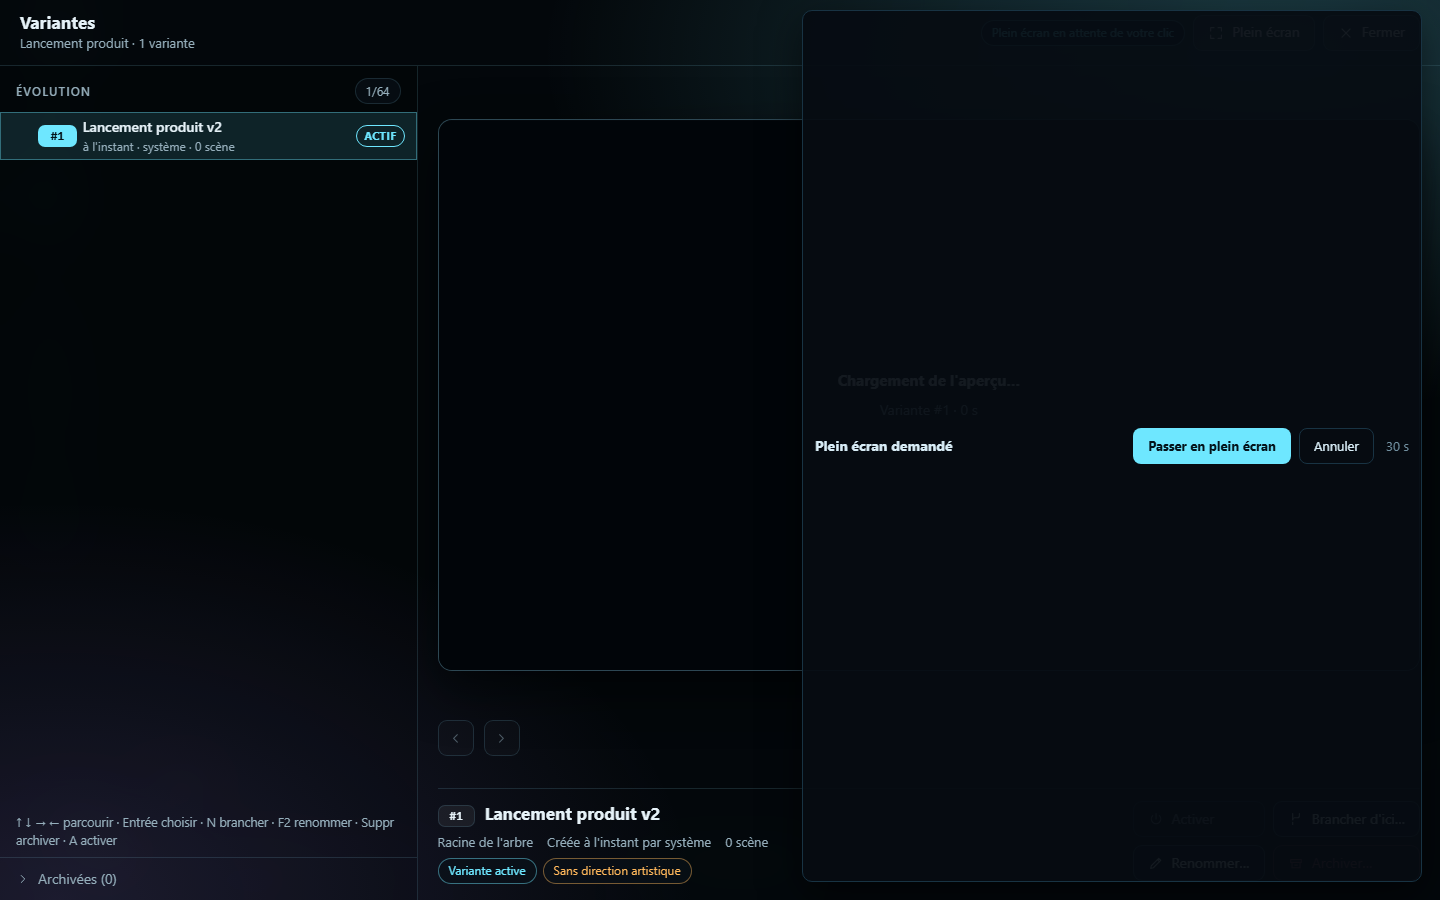
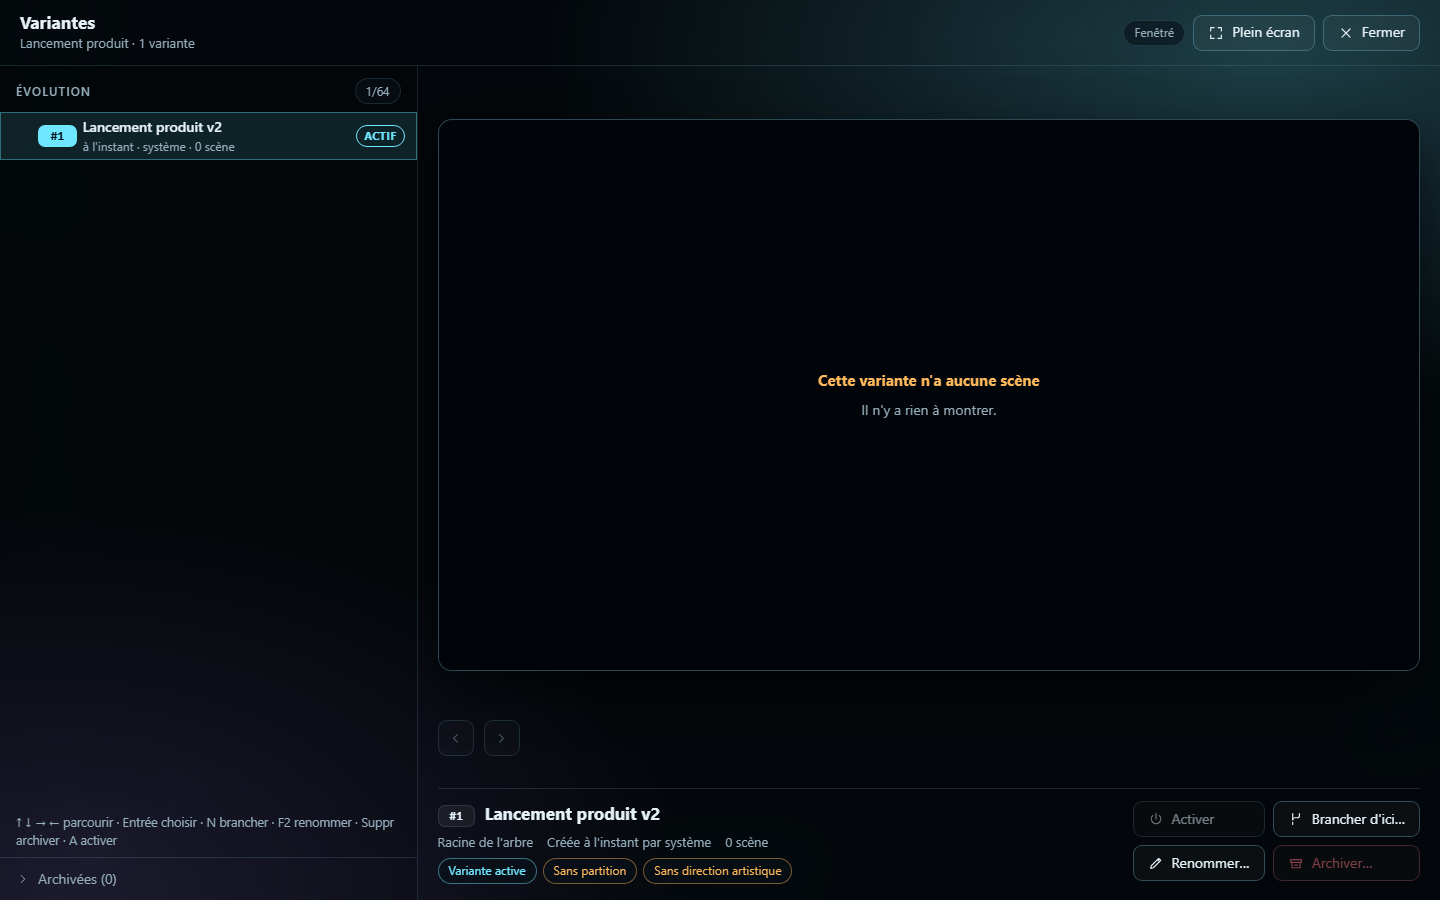
S8: rework (Board change clears the previous groups, disabled open says why, notice brought into view, 50-source cap, one links instance, failed render error code, retaken screenshot)

diff --git a/jarvis/runtime/control_center_workspace.js b/jarvis/runtime/control_center_workspace.js
@@ -42,6 +42,7 @@ const JarvisWorkspaceCore=(function(){
      l'inspection d'un Board, 10 s pour le reste (`docs/boards.md`) : le client
      attend un peu plus, pour que ce soit la réponse du relais qui parle. */
   const DEADLINE_MS=Object.freeze({read:15000,memory:35000});
+  const PRES_PAGE=50;
   const PAGE=20,ACTIVITY_PAGE=50,ARTIFACT_TEXT=2000,READ_BYTES=65536;
   const TREE=Object.freeze({depth:8,max_entries:500});
 
@@ -292,7 +293,7 @@ const JarvisWorkspaceCore=(function(){
       relations:{scope:'session',id:null,data:slot(),artifacts:pager()},
       memory:{boardId:null,tree:slot(),file:{path:null,...slot()},search:{q:'',path:'',...slot()},
         form:null,confirm:null,formGen:0,archived:false},
-      artifacts:{scope:'board',id:null,session:null,context:null,kind:'',since:'',until:'',list:pager(),detail:{id:null,...slot()},presentations:slot()},
+      artifacts:{scope:'board',id:null,session:null,context:null,kind:'',since:'',until:'',list:pager(),detail:{id:null,...slot()},presentations:slot(),presShown:PRES_PAGE},
     };
   }
 
@@ -592,7 +593,9 @@ const JarvisWorkspaceCore=(function(){
     }
     function presentationsRead(){
       const a=S.artifacts;
-      if(a.scope!=='board'||!a.id){a.presentations=slot();changed();return Promise.resolve(null)}
+      if(a.scope!=='board'||!a.id){a.presentations=slot();a.presShown=PRES_PAGE;changed();return Promise.resolve(null)}
+      /* Un autre Board : les groupes du précédent disparaissent AVANT la lecture (jamais ses boutons sous un autre titre). */
+      if(a.presentations.key!==a.id){a.presentations=slot();a.presShown=PRES_PAGE}
       return load(a.presentations,a.id,()=>client.get(PATHS.boardPresentations(a.id)),{event:'presentations_read'});
     }
     /* « Ouvrir la source » : le Studio possède la présentation ; la page ne fait que demander son ouverture par identifiant. */
@@ -798,6 +801,7 @@ const JarvisWorkspaceCore=(function(){
         case 'artifact-toggle':return openArtifact(d.id);
         case 'artifact-show':return S.view==='artifacts'?openArtifact(d.id,{toggle:false}):showArtifact(d.id);
         case 'source-open':return openSource(d);
+        case 'presentations-more':S.artifacts.presShown+=PRES_PAGE;changed();return null;
         case 'artifact-close':S.artifacts.detail={id:null,...slot()};changed();return null;
         case 'switch':return switchTo(d.board);
         case 'notice-close':S.notice=null;changed();return null;
@@ -1239,7 +1243,16 @@ const JarvisWorkspaceCore=(function(){
     return `<li><span class="wsp-node">Rendu</span> ${chip(RENDER_FORMATS[render.format]||artifactKindLabel(render.kind),'',`kind : ${render.kind}`)}`
       +`${render.state&&render.state!=='complete'?stateChip(render.state):''}${here?'':chip('Non lié à ce Board','warn','Ce rendu n’est lié qu’à d’autres Boards.')}`
       +`<button type="button" class="wsp-link" data-act="artifact-show" data-id="${esc(render.artifact_id)}" title="Ouvrir le détail et la provenance">${esc(render.artifact_id)}</button>`
-      +`${render.size_bytes!=null?` <span class="wsp-sub">${esc(formatBytes(render.size_bytes))}</span>`:''}</li>`;
+      +`${render.size_bytes!=null?` <span class="wsp-sub">${esc(formatBytes(render.size_bytes))}</span>`:''}`
+      +`${render.error_code&&render.state!=='complete'?` <span class="wsp-sub">${esc(render.error_code)}</span>`:''}</li>`;
+  }
+  /* Un bouton « Ouvrir » désactivé dit POURQUOI, en texte visible relié par aria-describedby (pas seulement en infobulle). */
+  function openButtonHtml(attrs,label,source,key){
+    if(source&&source.exists)return btn('source-open',attrs,label,{title:'Ouvre dans le Studio (version actuelle de la source)'});
+    const why=source&&source.exists===null?'Source illisible : impossible de l’ouvrir.':'Source supprimée : rien à ouvrir.';
+    const id=`wspWhy-${String(key).replace(/[^A-Za-z0-9_-]/g,'')}`;
+    return btn('source-open',attrs,label,{disabled:true,title:why}).replace('<button ',`<button aria-describedby="${esc(id)}" `)
+      +`<span class="wsp-sub" id="${esc(id)}">${esc(why)}</span>`;
   }
   function snapshotRowHtml(snap,source,boardId,presentationId){
     const renders=list(snap.renders).map(r=>renderRowHtml(r,boardId)).join('');
@@ -1249,30 +1262,32 @@ const JarvisWorkspaceCore=(function(){
       +`<span class="wsp-sub">variante ${esc(snap.variant_id)} · révision ${esc(snap.source_presentation_revision)}/${esc(snap.source_variant_revision)} · ${esc(formatWhen(snap.created_at))}`
       +`${failed&&snap.error_code?` · ${esc(snap.error_code)}`:''}</span> `
       +`<button type="button" class="wsp-link" data-act="artifact-show" data-id="${esc(snap.artifact_id)}" title="Ouvrir le détail et la provenance">${esc(snap.artifact_id)}</button> `
-      +`${btn('source-open',{presentation:presentationId,variant:snap.variant_id},'Ouvrir la variante',{disabled:!(source&&source.exists),title:source&&source.exists?'Ouvre cette variante dans le Studio (sa version actuelle)':'La source n’est pas disponible'})}`
+      +`${openButtonHtml({presentation:presentationId,variant:snap.variant_id},'Ouvrir la variante',source,snap.artifact_id)}`
       +`<ul class="wsp-tree">${renders||'<li class="wsp-none">Aucun rendu.</li>'}</ul></li>`;
   }
   function presentationsHtml(S){
     const a=S.artifacts;
     if(a.scope!=='board'||!a.id)return '';
-    return slotHtml(a.presentations,{label:'Lecture des présentations…',retry:'presentations'},d=>{
+    return slotHtml(a.presentations,{label:`Lecture des présentations de « ${titleOf(S,a.id)} »…`,retry:'presentations'},d=>{
       const sources=list(d.sources),unreadable=list(d.unreadable);
-      const groups=sources.map(src=>{
+      const shown=Math.max(PRES_PAGE,Number(a.presShown)||PRES_PAGE);
+      const groups=sources.slice(0,shown).map(src=>{
         const live=src.source||{};
         const others=[...new Set(list(src.snapshots).flatMap(x=>[...list(x.board_ids)]))].filter(id=>id!==d.board_id);
         const title=live.exists?esc(live.title||'Sans titre'):live.exists===false?'<span class="wsp-bad">Source supprimée</span>':'<span class="wsp-warn">Source illisible</span>';
         return `<div class="wsp-psrc"><div class="wsp-line"><span class="wsp-node">Source</span><span class="wsp-label">${title}</span>`
           +`${live.exists?engineChip(live.engine)+chip(`révision ${live.revision}`,''):''}`
-          +`${btn('source-open',{presentation:src.presentation_id},'Ouvrir la source',{disabled:!live.exists,title:live.exists?'Ouvre la présentation dans le Studio':'La source n’est pas disponible'})}</div>`
+          +`${openButtonHtml({presentation:src.presentation_id},'Ouvrir la source',live,src.presentation_id)}</div>`
           +`<span class="wsp-sub">${esc(src.source_ref)}</span>`
           +(others.length?`<p class="wsp-sub">Aussi sur : ${others.map(id=>`<button type="button" class="wsp-link" data-act="goto" data-view="artifacts" data-scope="board" data-id="${esc(id)}">${esc(titleOf(S,id))}</button>`).join(' · ')}</p>`:'')
           +`<ul class="wsp-tree">${list(src.snapshots).map(x=>snapshotRowHtml(x,live,d.board_id,src.presentation_id)).join('')||'<li class="wsp-none">Aucune copie figée lisible.</li>'}</ul></div>`;
       }).join('');
       const bad=unreadable.length?`<p class="wsp-warn">${plural(unreadable.length,'artefact de présentation illisible','artefacts de présentation illisibles')} (provenance absente ou incohérente) : `
         +`${unreadable.map(u=>`<button type="button" class="wsp-link" data-act="artifact-show" data-id="${esc(u.artifact_id)}" title="${esc(u.code)}">${esc(u.artifact_id)}</button>`).join(' ')}</p>`:'';
-      return `<section class="wsp-sect" aria-labelledby="wspPresTitle"><h4 id="wspPresTitle">Présentations de ce Board <span class="wsp-n">${sources.length}</span></h4>`
+      const more=sources.length>shown?`<p class="wsp-end">${shown} sources affichées sur ${sources.length} ${btn('presentations-more',{},'Afficher la suite')}</p>`:'';
+      return `<section class="wsp-sect" aria-labelledby="wspPresTitle"><h4 id="wspPresTitle">Présentations de « ${esc(titleOf(S,d.board_id))} » <span class="wsp-n">${sources.length}</span></h4>`
         +(groups||(unreadable.length?'':'<p class="wsp-none">Aucune présentation figée sur ce Board. Figer une présentation crée la copie que le Board montre ; une source jamais figée n’est sur aucun Board.</p>'))
-        +bad+(d.truncated?'<p class="hint">Lecture bornée : des copies, rendus ou liens au-delà des plafonds ne sont pas montrés.</p>':'')+'</section>';
+        +more+bad+(d.truncated?'<p class="hint">Lecture bornée : des copies, rendus ou liens au-delà des plafonds ne sont pas montrés.</p>':'')+'</section>';
     });
   }
   function artifactsHtml(S){
@@ -1441,7 +1456,7 @@ if(typeof module!=='undefined'&&module.exports)module.exports=JarvisWorkspaceCor
       node.textContent=W.formatSeconds(now-since);
     }
   }
-  let lastConfirm=null,lastOverlay=null;
+  let lastConfirm=null,lastOverlay=null,lastNotice=null;
   /* La commande qui a ouvert la confirmation ou le formulaire, décrite par
      ses attributs (le nœud est remplacé à chaque rendu). */
   const OPENERS=new Set(['memory-delete-ask','memory-form']);
@@ -1470,6 +1485,12 @@ if(typeof module!=='undefined'&&module.exports)module.exports=JarvisWorkspaceCor
       el.panel.innerHTML=W.panelHtml(S);
     });
     renderStatus();tickClocks();
+    /* Un avis nouveau (refus d'ouvrir la source, erreur) est amené à l'écran : il n'est jamais dit hors de vue. */
+    if(S.notice&&S.notice!==lastNotice){
+      const note=q('.wsp-notice');
+      if(note&&typeof note.scrollIntoView==='function')note.scrollIntoView({block:'nearest'});
+    }
+    lastNotice=S.notice;
     /* « Inspecter » (Slice 08) : le focus rejoint la ligne du Board à sa
        première peinture (la liste arrive après l'ouverture). Chaque rendu
        refait la liste et la ligne n'a pas d'id que `withFocusAndInput` saurait

diff --git a/tests/unit/test_workspace_presentations_js.py b/tests/unit/test_workspace_presentations_js.py
@@ -36,7 +36,7 @@ def test_a_board_groups_source_snapshot_and_renders_with_engine_revisions_and_fr
       out({html:w.html(),calls:w.server.calls.map(c=>c.path)});
     """)
     text = _text(seen["html"])
-    assert "Présentations de ce Board" in text and "Atelier" in text
+    assert "Présentations de « Projet A »" in text and "Atelier" in text
     # order reads top-down: source, then its frozen copy, then the render
     assert text.index("Source") < text.index("Copie figée") < text.index("Rendu")
     assert "Remotion" in text and "révision 2" in text and "À jour" in text
@@ -159,7 +159,7 @@ def test_server_text_is_escaped_and_a_non_board_scope_hides_and_forgets_the_grou
     """)
     assert "<img" not in seen["html"] and "&lt;img" in seen["html"]
     assert "<b>x</b>" not in seen["html"]
-    assert "Présentations de ce Board" not in seen["session"] and seen["state"] == "idle"
+    assert "Présentations de «" not in seen["session"] and seen["state"] == "idle"
     assert seen["calls"] == 1
 
 
@@ -172,3 +172,60 @@ def test_actualiser_rereads_the_groups_so_nothing_is_kept_in_the_page(tmp_path):
       out({html:w.html(),reads:w.server.calls.filter(c=>c.path.includes('board_a/presentation-sources')).length});
     """)
     assert "Source modifiée depuis" in _text(seen["html"]) and seen["reads"] == 2
+
+
+def test_a_board_change_forgets_the_previous_boards_groups_before_its_own_read_arrives(tmp_path):
+    seen = run_node(tmp_path, SEED + r"""
+      const w=world();seed(w,[group()]);
+      await openArtifacts(w);
+      const first=w.html();
+      w.server.plan['/api/workspace/boards/board_b/presentation-sources']='hang';
+      const pending=w.manager.act('goto',{view:'artifacts',scope:'board',id:'board_b'});await settle();
+      const during=w.html(),status=w.S.artifacts.presentations.status,data=w.S.artifacts.presentations.data;
+      w.timers.forEach(fn=>fn());await settle();await pending;
+      out({first,during,status,data,after:w.html()});
+    """)
+    assert "Atelier" in _text(seen["first"]) and "Présentations de « Projet A »" in _text(seen["first"])
+    during = seen["during"]
+    assert seen["status"] == "loading" and seen["data"] is None
+    assert "Atelier" not in _text(during) and 'data-act="source-open"' not in during, "Board A's groups are gone"
+    assert "Lecture des présentations de « Projet B »" in _text(during), "the wait names the Board being read"
+    assert "Atelier" not in _text(seen["after"]), "a read that ended in error never brings Board A back"
+
+
+def test_a_disabled_open_button_says_why_in_visible_text_linked_by_aria_describedby(tmp_path):
+    seen = run_node(tmp_path, SEED + r"""
+      const w=world();
+      seed(w,[group({source:{exists:false}},{stale:null}),group({presentation_id:'pst_'+'9'.repeat(32),source:{exists:null,unreadable:'x'}},{stale:null,artifact_id:'jart_ps_other'})]);
+      await openArtifacts(w);out({html:w.html()});
+    """)
+    html = seen["html"]
+    import re
+    ids = re.findall(r'<button aria-describedby="(wspWhy-[^"]+)"[^>]*disabled', html)
+    assert len(ids) == 4 and len(set(ids)) == 4
+    for one in ids:
+        assert f'id="{one}"' in html
+    text = _text(html)
+    assert "Source supprimée : rien à ouvrir." in text and "Source illisible : impossible de l’ouvrir." in text
+
+
+def test_a_failed_render_shows_its_error_code_and_many_sources_are_capped_with_show_more(tmp_path):
+    seen = run_node(tmp_path, SEED + r"""
+      const w=world();
+      const many=[];for(let i=0;i<120;i+=1)many.push(group({presentation_id:'pst_'+String(i).padStart(32,'0'),source_ref:'presentation:pst_'+String(i).padStart(32,'0')},
+        {artifact_id:'jart_s'+i,renders:i===0?[{artifact_id:'jart_'+'f'.repeat(32),kind:'presentation_pdf',state:'failed',format:'pdf',error_code:'render_failed',size_bytes:null,board_ids:['board_a']}]:[]}));
+      seed(w,many);await openArtifacts(w);
+      const capped=w.html();
+      await w.act('presentations-more');await w.act('presentations-more');
+      out({capped,all:w.html()});
+    """)
+    assert seen["capped"].count('class="wsp-psrc"') == 50 and "50 sources affichées sur 120" in _text(seen["capped"])
+    assert "render_failed" in _text(seen["capped"]) and "Échoué" in _text(seen["capped"])
+    assert seen["all"].count('class="wsp-psrc"') == 120 and "sources affichées" not in _text(seen["all"])
+
+
+def test_a_refused_open_notice_is_a_live_alert_and_is_brought_into_view():
+    source = (MODULE_PATH_FOR_TEXT := __import__("pathlib").Path(__file__).resolve().parents[2] / "jarvis" / "runtime"
+              / "control_center_workspace.js").read_text(encoding="utf-8")
+    assert "S.notice!==lastNotice" in source and "note.scrollIntoView({block:'nearest'})" in source
+    assert "role=\"${n.tone==='bad'?'alert':'status'}\"" in source

diff --git a/tests/unit/test_workspace_presentations_browser.py b/tests/unit/test_workspace_presentations_browser.py
@@ -70,7 +70,7 @@ def _plan(w: dict, *, width: int, height: int, shots: bool = True) -> dict:
         {"do": "document.getElementById('openWorkspace').click()"},
         {"wait": "document.getElementById('wsp-tab-artifacts')"},
         {"do": "document.getElementById('wsp-tab-artifacts').click()"},
-        {"wait": f"{text}.includes('Présentations de ce Board')&&{text}.includes('Lancement produit')"},
+        {"wait": f"{text}.includes('Présentations de «')&&{text}.includes('Lancement produit')"},
         {"wait": "document.getElementById('wspStatus').dataset.tone!=='busy'"},
         {"get": "section", "expr": f"{sections}.textContent"},
         {"get": "overflow", "expr": f"(()=>{{const p={panel};return p.scrollWidth-p.clientWidth}})()"},
@@ -100,6 +100,12 @@ def _plan(w: dict, *, width: int, height: int, shots: bool = True) -> dict:
         {"get": "explorer_open", "expr": "!!(window.JarvisStudioExplorer&&window.JarvisStudioExplorer.isOpen())"},
     ]
     if shots:
+        # The explorer fades in: take the picture once the transition has settled, not mid-way.
+        # Headless Chrome cannot grant fullscreen: the explorer's own "Plein écran demandé" prompt waits for a click. Dismiss it
+        # (« Annuler ») so the picture shows the windowed explorer, not the prompt over a faded host.
+        steps.append({"do": "(()=>{const b=[...document.querySelectorAll('button')].find(x=>x.textContent.trim()==='Annuler'&&x.offsetParent!==null);"
+                            "if(b)b.click();return true})()"})
+        steps.append({"get": "settled", "expr": "new Promise(r=>setTimeout(()=>r(true),2500))"})
         steps.append({"shot": f"s8-open-source-{width}.png"})
     return {"width": width, "height": height, "steps": steps}
 

diff --git a/jarvis/core/v2_app.py b/jarvis/core/v2_app.py
@@ -273,9 +273,10 @@ class JarvisCoreApplication:
         # Inspection du workspace (handoff board-memory-workspace-inspector, Slice 04) :
         # lectures sans effet de bord sur les magasins canoniques (même base, même
         # connexion), servies par `jarvis/protocol/workspace_routes.py`.
+        self.board_artifact_links = SQLiteBoardArtifactLinks(self.state)  # one instance: workspace and presentation bridge
         self.workspace = WorkspaceService(
             boards=SQLiteBoardRepository(self.state), contexts=SQLiteContextRepository(self.state),
-            artifacts=self.artifacts, links=SQLiteBoardArtifactLinks(self.state), memory=FileBoardMemoryStore(root),
+            artifacts=self.artifacts, links=self.board_artifact_links, memory=FileBoardMemoryStore(root),
             authority=self.speech_authority, diagnostics=diagnostics)
         if attributing is not None:
             attributing.resolve = self.sessions.cached_board_of
@@ -361,7 +362,7 @@ class JarvisCoreApplication:
         # Pont Presentation -> Artifacts (Remotion Slice 08) : sans etat propre ; la table `board_artifact_links` reste l'unique
         # proprietaire de « quels Boards montrent cette source » (`docs/presentation-artifacts.md`). Le workspace le lit.
         self.presentation_artifacts = PresentationArtifacts(
-            self.presentation_studio, self.artifacts, SQLiteBoardArtifactLinks(self.state), diagnostics=diagnostics)
+            self.presentation_studio, self.artifacts, self.board_artifact_links, diagnostics=diagnostics)
         self.workspace.bind_presentations(self.presentation_artifacts)
         self.scene = SceneService(
             scene_repository or SQLiteSceneRepository(root / "state" / "scene.sqlite3"),

diff --git a/jarvis/core/presentation_artifacts.py b/jarvis/core/presentation_artifacts.py
@@ -283,6 +283,7 @@ class PresentationArtifacts:
             boards |= render_boards
             renders.append({"artifact_id": render.artifact_id, "kind": render.kind.value, "state": render.state.value,
                             "format": render.metadata.get("render_format"), "size_bytes": render.size_bytes,
+                            "error_code": render.error_code,
                             "board_ids": sorted(render_boards)})
         stale = None
         if live.get("exists"):

diff --git a/tasks/jarvis-remotion-presentation-integration/LOG.md b/tasks/jarvis-remotion-presentation-integration/LOG.md
@@ -76,3 +76,5 @@ Ancienne branche supprimée, recréée depuis origin/main de7b9c59 (studio fusio
 - **Preuve navigateur** (Chrome sans tête, vrai Core + vrai Control Center sur ports libres et racine `tmp_path`, jamais le JARVIS vivant) : `slices/08-artifact-board-registration/evidence/*.png` ; le clic « Ouvrir la source » ouvre vraiment l'Explorateur de variantes du Studio.
 - **Tests** (interpréteur `.venv` de `C:/Projects/jarvis/jarvis`, cwd brs8, un fichier à la fois) : nouveaux `test_presentation_board_discovery` 12, `test_workspace_presentations_js` 8, `test_workspace_presentations_browser` 2, `test_presentation_artifacts_docs` 6 (+3) ; voisins verts : presentation_artifacts 43, workspace_manager_js 25, workspace_manager_browser 2, workspace_inspection_api 51, workspace_mcp 66, workspace_memory_mutations 65, workspace_board_contract 72, capture_api_protocol 70, capture_mcp 14, capture_relay 35, mcp_catalog 88, v2_architecture 8, documented_routes 3, schema_migrations 8 (aucun schéma touché), board_artifact_links 9, artifact_store 15, artifacts_domain 50, board_workspace_e2e 8.
 - **Risques résiduels** : un id de snapshot/rendu reste affiché en entier (long) ; recherche des snapshots d'une source = balayage borné (200 x 25) ; « Ouvrir la source » dépend de `window.JarvisStudioExplorer` (refus de l'explorateur : lecture en cours, formulaire ouvert) ; une source supprimée n'est nommée que par sa référence (le titre n'est pas copié dans le snapshot) ; macOS/Linux et Core réel démarré non éprouvés.
+
+- **S8: rework (QA REWORK, B1)** : B1 un changement de Board remet `presentations` a zero avant la lecture (les groupes et boutons du Board precedent ne restent plus sous un autre titre) ; titre et attente nomment le Board (« Presentations de « X » »). P1 capture `s8-open-source-1440.png` reprise apres fermeture de l'invite plein ecran du headless (explorateur fenetre, plus de voile). P2 « Ouvrir... » desactive : texte visible (`Source supprimee : rien a ouvrir.` / `Source illisible...`) relie par `aria-describedby`. P3 un avis nouveau est amene a l'ecran (`scrollIntoView`), `role=alert` conserve pour `bad`. P4 plafond de 50 sources + « Afficher la suite ». P5 une seule instance `SQLiteBoardArtifactLinks` (`core.board_artifact_links`) partagee par le workspace et le pont. Un rendu echoue montre son `error_code`. Tests : presentations_js 12 (+4), presentations_browser 2, workspace_manager_js 25, board_discovery 12, artifacts_docs 6, presentation_artifacts 43, workspace_inspection_api 51, v2_architecture 8, documented_routes 3.

diff --git a/docs/presentation-artifacts.md b/docs/presentation-artifacts.md
@@ -133,7 +133,7 @@ Delivered by Remotion Slice 08 on top of `PresentationArtifacts`; **no storage, 
 5. **Closed kind lists.** `artifact_search` (`jarvis/runtime/capture_mcp.py`) accepts the four kinds (11 in all, `max_length=11`); the Control Center
    `ARTIFACT_KINDS` labels them « Présentation figée », « Présentation (vidéo) », « Présentation (image) », « Présentation (PDF) » and `rendered_from` reads
    « rendu de » / « a été rendu en ». The workspace and capture routes already filtered by the `ArtifactKind` enum.
-6. **Control Center** (Artefacts view, scope Board): « Présentations de ce Board » above the list, source → copie figée → rendus ([boards.md](boards.md#control-center-sessions--boards-manager)).
+6. **Control Center** (Artefacts view, scope Board): « Présentations de « <Board> » » above the list, source → copie figée → rendus ([boards.md](boards.md#control-center-sessions--boards-manager)).
    « Ouvrir la source » / « Ouvrir la variante » call `JarvisStudioExplorer.open({presentation_id, variant_id})` (a `SourceRef`, never an artifact id), close the
    panel only if the explorer accepted, and show every refusal. After a restart everything is read again from the registry and the Studio: nothing is cached in the page.
 7. `legacy_artifact_refs` stays labelled legacy; presentations are never added to it (test `test_a_frozen_presentation_never_enters_the_legacy_refs_of_its_board`).
